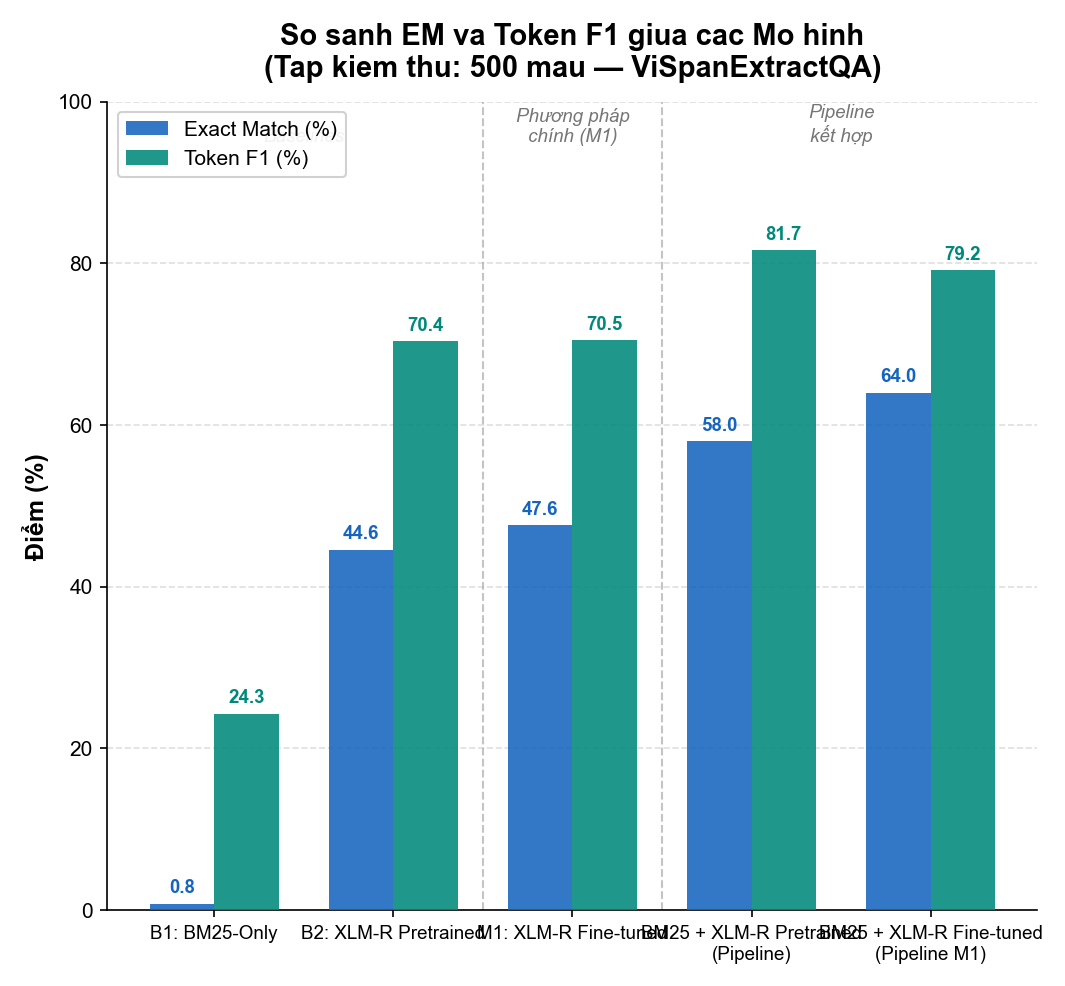
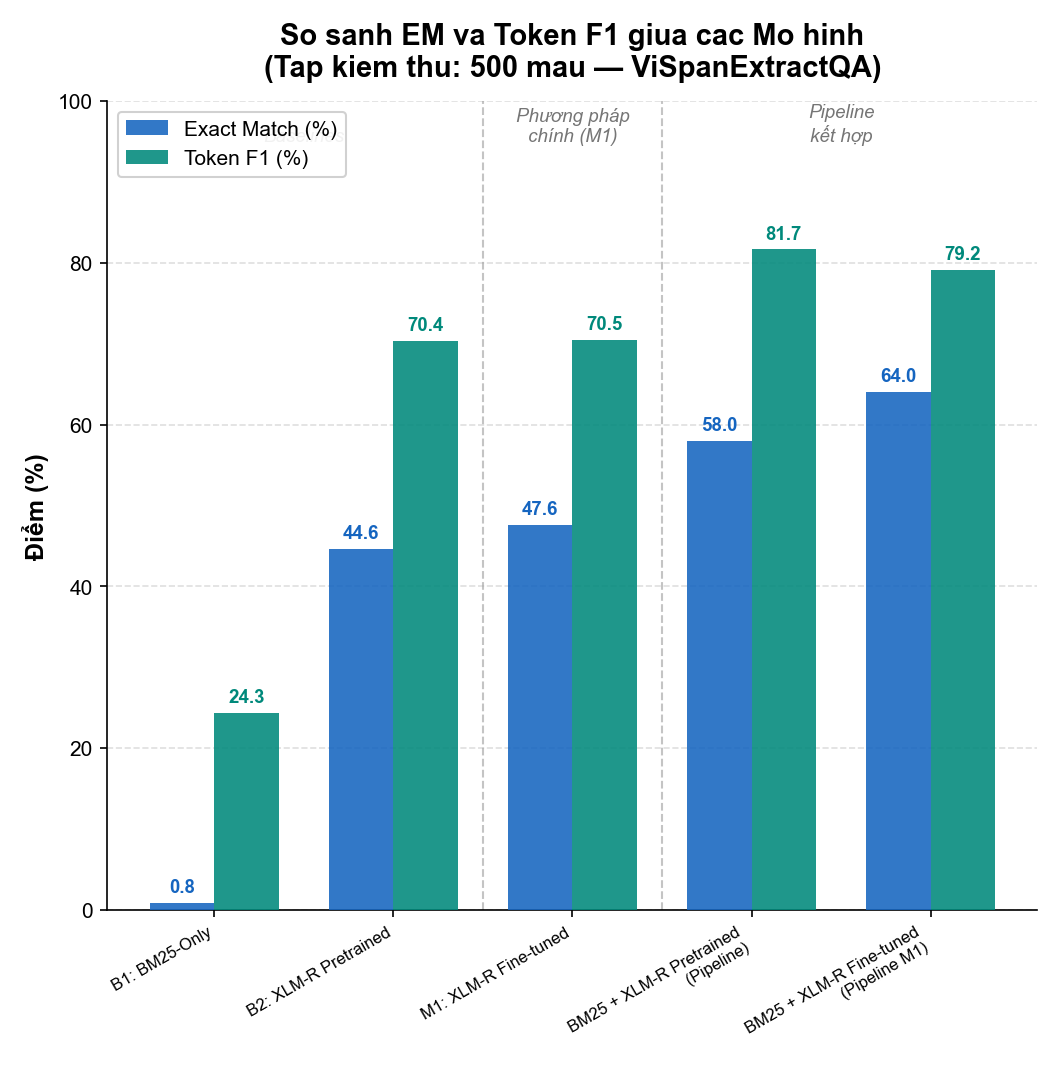
fix(charts): fix fig1 x-axis label overlap (rotation=30, ha=right) and regenerate all 7 figures

diff --git a/src/models/visualize_results.py b/src/models/visualize_results.py
@@ -275,7 +275,7 @@ def plot_em_f1_comparison(results: list, out_dir: Path, num_samples: int):
             fontsize=9, color="#757575", style="italic")
 
     ax.set_xticks(x)
-    ax.set_xticklabels(labels, fontsize=9, ha="center")
+    ax.set_xticklabels(labels, fontsize=8, ha="right", rotation=30)
     ax.set_ylim(0, 100)
     ax.set_ylabel("Điểm (%)", fontweight="bold")
     ax.set_title(
@@ -290,7 +290,7 @@ def plot_em_f1_comparison(results: list, out_dir: Path, num_samples: int):
     ax.spines["right"].set_visible(False)
 
     out_path = out_dir / "fig1_em_f1_comparison.png"
-    fig.savefig(out_path)
+    fig.savefig(out_path, bbox_inches="tight")
     plt.close(fig)
     print(f"  [OK] {out_path}")
 